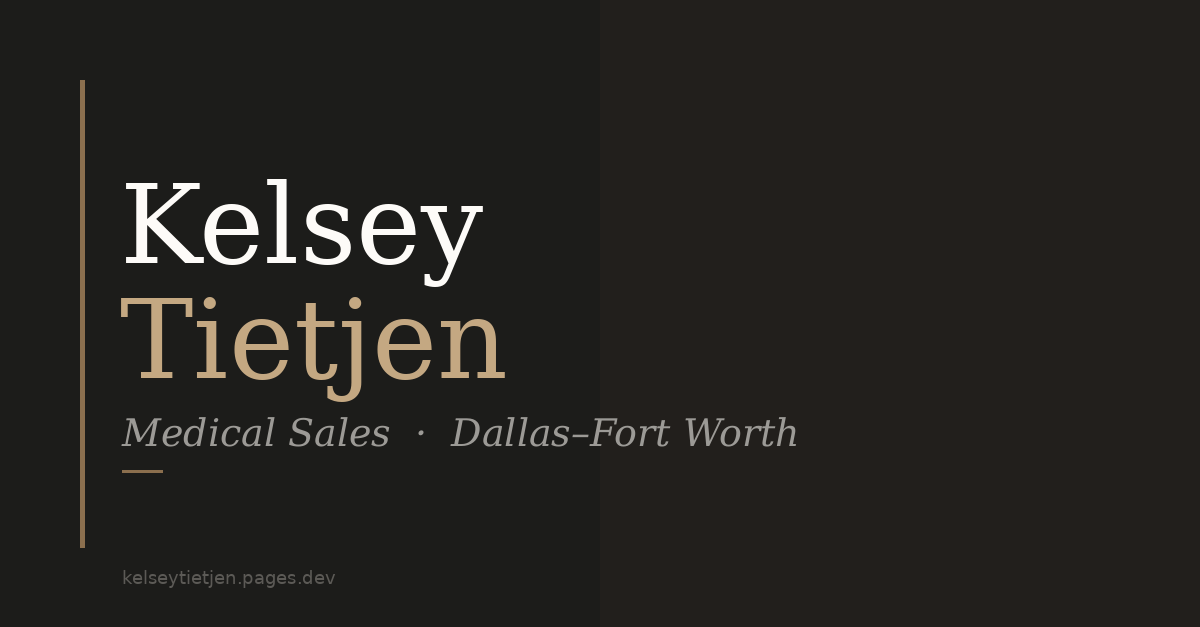
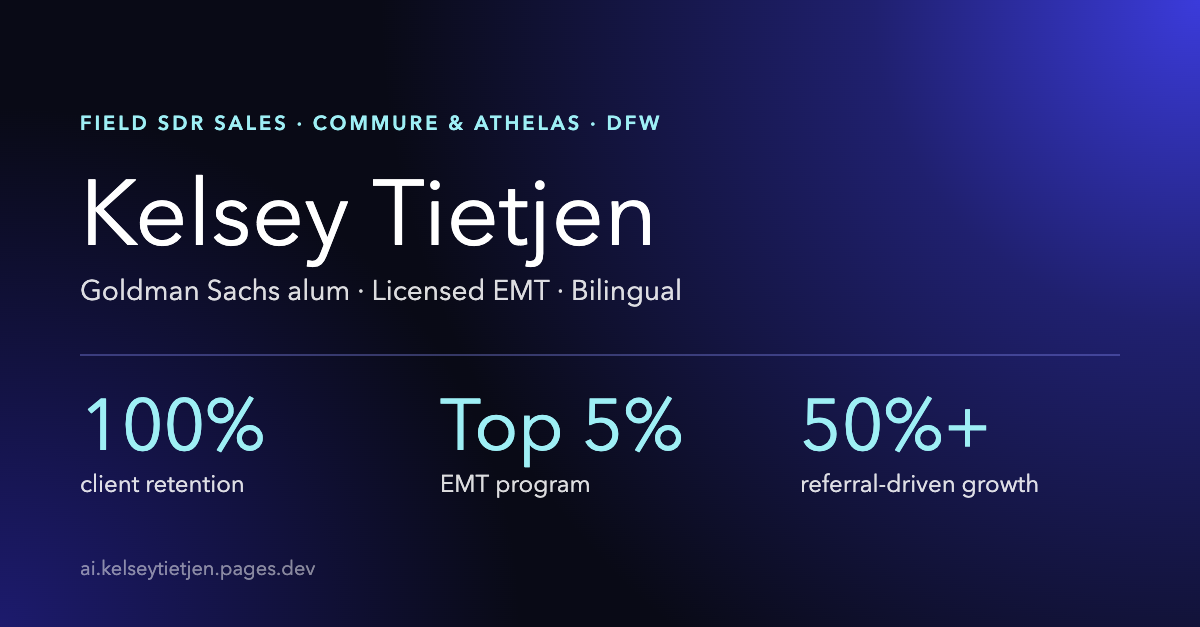
Restyle site in Commure colors and type; new link preview

diff --git a/index.html b/index.html
@@ -20,118 +20,132 @@
 <meta name="twitter:description" content="Goldman Sachs alum, licensed EMT, and bilingual Commure + Athelas Field SDR candidate in Dallas-Fort Worth. Built across missions, boardrooms, and trauma bays.">
 <meta name="twitter:image" content="https://raw.githubusercontent.com/kelseytietjen-tech/portfolio/ai/og-image-v2.png">
 
-<link href="https://fonts.googleapis.com/css2?family=Cormorant+Garamond:ital,wght@0,300;0,400;0,600;1,300;1,400&family=DM+Sans:wght@300;400;500&display=swap" rel="stylesheet">
+<link href="https://fonts.googleapis.com/css2?family=Sora:wght@300;400;500;600&family=DM+Sans:wght@300;400;500&display=swap" rel="stylesheet">
 <style>
   *, *::before, *::after { box-sizing: border-box; margin: 0; padding: 0; }
   :root {
-    --cream: #F7F4EF;
-    --warm-white: #FDFBF8;
-    --charcoal: #1C1C1A;
-    --mid: #5C5A56;
-    --light: #9C9A96;
-    --accent: #8B6F4E;
-    --accent-light: #C4A882;
-    --border: #E8E4DC;
+    --ink: #090A16;
+    --ink-2: #0E0F24;
+    --panel: rgba(255,255,255,0.035);
+    --panel-hover: rgba(255,255,255,0.07);
+    --line: rgba(140,146,255,0.22);
+    --indigo: #3B3BDB;
+    --indigo-deep: #23208A;
+    --cyan: #9EEFF5;
+    --white: #FFFFFF;
+    --text: rgba(255,255,255,0.86);
+    --muted: rgba(255,255,255,0.62);
+    --faint: rgba(255,255,255,0.42);
   }
   html { scroll-behavior: smooth; }
-  body { font-family: 'DM Sans', sans-serif; background: var(--warm-white); color: var(--charcoal); font-size: 15px; line-height: 1.7; }
-  .hero { min-height: 100vh; display: grid; grid-template-columns: 1fr 1fr; position: relative; overflow: hidden; }
-  .hero-left { background: var(--charcoal); display: flex; align-items: center; justify-content: center; padding: 4rem; position: relative; }
-  .hero-left::after { content: ''; position: absolute; top: 0; right: -1px; width: 60px; height: 100%; background: var(--warm-white); clip-path: polygon(100% 0, 100% 100%, 0 100%); }
-  .hero-photo { width: 100%; max-width: 380px; aspect-ratio: 3/4; object-fit: cover; object-position: top; filter: grayscale(20%) contrast(1.05); }
-  .hero-right { display: flex; flex-direction: column; justify-content: center; padding: 5rem 4rem 5rem 5rem; background: var(--warm-white); }
-  .eyebrow { font-family: 'DM Sans', sans-serif; font-size: 11px; font-weight: 500; letter-spacing: 0.18em; text-transform: uppercase; color: var(--accent); margin-bottom: 1.5rem; }
-  h1 { font-family: 'Cormorant Garamond', serif; font-size: clamp(3rem, 5vw, 4.5rem); font-weight: 300; line-height: 1.05; color: var(--charcoal); margin-bottom: 0.5rem; }
-  h1 em { font-style: italic; color: var(--accent); }
-  .hero-tagline { font-family: 'Cormorant Garamond', serif; font-size: 1.2rem; font-style: italic; color: var(--mid); margin-bottom: 2rem; font-weight: 300; }
-  .hero-pills { display: flex; flex-wrap: wrap; gap: 8px; margin-bottom: 2.5rem; }
-  .pill { font-size: 11px; font-weight: 500; letter-spacing: 0.08em; text-transform: uppercase; padding: 6px 14px; border: 1px solid var(--border); color: var(--mid); background: var(--cream); }
+  body { font-family: 'DM Sans', sans-serif; background: var(--ink); color: var(--text); font-size: 15px; line-height: 1.7; }
+  h1, h2, h3, .exp-title, .story-card-title, .cred-number, .highlight-text, .story-modal-title { font-family: 'Sora', sans-serif; }
+
+  /* HERO */
+  .hero { min-height: 100vh; display: grid; grid-template-columns: 1fr 1fr; position: relative; overflow: hidden;
+    background: radial-gradient(ellipse 70% 80% at 100% 0%, var(--indigo) 0%, rgba(59,59,219,0.35) 35%, transparent 70%),
+                radial-gradient(ellipse 50% 50% at 0% 100%, rgba(35,32,138,0.6) 0%, transparent 70%), var(--ink); }
+  .hero-left { display: flex; align-items: center; justify-content: center; padding: 4rem; position: relative; }
+  .hero-photo { width: 100%; max-width: 380px; aspect-ratio: 3/4; object-fit: cover; object-position: top; border: 1px solid var(--line); filter: grayscale(15%) contrast(1.05); }
+  .hero-right { display: flex; flex-direction: column; justify-content: center; padding: 5rem 4rem 5rem 3rem; }
+  .eyebrow { font-family: 'Sora', sans-serif; font-size: 12px; font-weight: 600; letter-spacing: 0.16em; text-transform: uppercase; color: var(--cyan); margin-bottom: 1.5rem; }
+  h1 { font-size: clamp(3rem, 5.5vw, 4.75rem); font-weight: 400; line-height: 1.05; color: var(--white); margin-bottom: 1rem; letter-spacing: -0.01em; }
+  h1 em { font-style: normal; color: var(--white); }
+  .hero-tagline { font-size: 1.15rem; color: var(--text); margin-bottom: 2rem; font-weight: 300; max-width: 30rem; }
   .cta-row { display: flex; gap: 1rem; flex-wrap: wrap; }
-  .btn-primary { display: inline-block; background: var(--charcoal); color: var(--warm-white); padding: 12px 28px; font-size: 12px; font-weight: 500; letter-spacing: 0.1em; text-transform: uppercase; text-decoration: none; transition: background 0.2s; }
-  .btn-primary:hover { background: var(--accent); }
-  .btn-secondary { display: inline-block; border: 1px solid var(--charcoal); color: var(--charcoal); padding: 12px 28px; font-size: 12px; font-weight: 500; letter-spacing: 0.1em; text-transform: uppercase; text-decoration: none; transition: all 0.2s; }
-  .btn-secondary:hover { background: var(--charcoal); color: var(--warm-white); }
+  .btn-primary { display: inline-block; background: var(--cyan); color: var(--ink); padding: 13px 28px; font-family: 'Sora', sans-serif; font-size: 12px; font-weight: 600; letter-spacing: 0.1em; text-transform: uppercase; text-decoration: none; border-radius: 999px; transition: background 0.2s, transform 0.2s; }
+  .btn-primary:hover { background: var(--white); }
+  .btn-secondary { display: inline-block; border: 1px solid rgba(255,255,255,0.55); color: var(--white); padding: 12px 28px; font-family: 'Sora', sans-serif; font-size: 12px; font-weight: 600; letter-spacing: 0.1em; text-transform: uppercase; text-decoration: none; border-radius: 999px; transition: all 0.2s; }
+  .btn-secondary:hover { border-color: var(--cyan); color: var(--cyan); }
+
   section { padding: 6rem 0; }
   .container { max-width: 1100px; margin: 0 auto; padding: 0 3rem; }
-  .section-label { font-size: 10px; font-weight: 500; letter-spacing: 0.2em; text-transform: uppercase; color: var(--accent); margin-bottom: 1rem; }
-  h2 { font-family: 'Cormorant Garamond', serif; font-size: clamp(2rem, 3.5vw, 3rem); font-weight: 300; line-height: 1.2; margin-bottom: 2rem; }
-  .narrative-section { background: var(--cream); }
+  .section-label { font-family: 'Sora', sans-serif; font-size: 12px; font-weight: 600; letter-spacing: 0.16em; text-transform: uppercase; color: var(--cyan); margin-bottom: 1rem; }
+  h2 { font-size: clamp(2rem, 3.5vw, 3rem); font-weight: 400; line-height: 1.15; margin-bottom: 2rem; color: var(--white); letter-spacing: -0.01em; }
+  .divider { width: 100%; max-width: 120px; height: 1px; background: var(--line); margin: 1.5rem 0; }
+
+  /* NARRATIVE */
+  .narrative-section { background: var(--ink); border-top: 1px solid var(--line); }
   .narrative-grid { display: grid; grid-template-columns: 1fr 1.6fr; gap: 4rem; align-items: start; }
   .narrative-sticky { position: sticky; top: 4rem; }
-  .narrative-body p { color: var(--mid); margin-bottom: 1.5rem; font-size: 15px; line-height: 1.85; }
+  .narrative-body p { color: var(--muted); margin-bottom: 1.5rem; font-size: 15px; line-height: 1.85; }
   .narrative-body p:last-child { margin-bottom: 0; }
-  .highlight-text { font-family: 'Cormorant Garamond', serif; font-size: 1.35rem; font-style: italic; color: var(--charcoal); line-height: 1.5; margin-bottom: 1.5rem; }
-  .credentials { background: var(--charcoal); color: var(--warm-white); }
-  .credentials h2 { color: var(--warm-white); }
-  .credentials .section-label { color: var(--accent-light); }
-  .cred-grid { display: grid; grid-template-columns: repeat(3, 1fr); gap: 2px; margin-top: 3rem; }
-  .cred-item { background: rgba(255,255,255,0.04); padding: 2.5rem 2rem; border: 1px solid rgba(255,255,255,0.08); transition: background 0.2s; }
-  .cred-item:hover { background: rgba(255,255,255,0.08); }
-  .cred-number { font-family: 'Cormorant Garamond', serif; font-size: 3rem; font-weight: 300; color: var(--accent-light); line-height: 1; margin-bottom: 0.5rem; }
-  .cred-label { font-size: 11px; font-weight: 500; letter-spacing: 0.1em; text-transform: uppercase; color: rgba(255,255,255,0.5); margin-bottom: 0.75rem; }
-  .cred-desc { font-size: 13px; color: rgba(255,255,255,0.65); line-height: 1.6; }
-  .recommendations-section { background: var(--warm-white); }
-  .rec-grid { display: grid; grid-template-columns: repeat(2, 1fr); gap: 2rem; margin-top: 3rem; }
-  .rec-card { background: var(--cream); border: 1px solid var(--border); padding: 2rem; transition: background 0.2s; display: flex; flex-direction: column; }
-  .rec-card:hover { background: #F0EAE0; }
-  .rec-card-content { flex-grow: 1; }
-  .rec-card-buttons { margin-top: 1.5rem; display: flex; gap: 0.75rem; }
-  .btn-view-letter-small { background: var(--accent); color: var(--warm-white); padding: 10px 20px; font-size: 11px; font-weight: 500; letter-spacing: 0.1em; text-transform: uppercase; border: none; cursor: pointer; transition: background 0.2s; }
-  .btn-view-letter-small:hover { background: var(--accent-light); }
-  .rec-quote { font-size: 14px; color: var(--charcoal); line-height: 1.8; font-style: italic; margin-bottom: 1rem; }
-  .rec-attribution { font-size: 12px; color: var(--light); font-weight: 500; }
+  .highlight-text { font-size: 1.25rem; font-weight: 300; color: var(--white) !important; line-height: 1.6; margin-bottom: 1.75rem; }
 
-  /* SIGNATURE STORIES */
-  .stories-section { background: var(--charcoal); color: var(--warm-white); }
-  .stories-section h2 { color: var(--warm-white); }
-  .stories-section .section-label { color: var(--accent-light); }
-  .stories-grid { display: grid; grid-template-columns: repeat(3, 1fr); gap: 2px; margin-top: 3rem; background: rgba(255,255,255,0.08); border: 1px solid rgba(255,255,255,0.08); }
-  .story-card { background: #232320; padding: 2.25rem; cursor: pointer; transition: background 0.2s; display: flex; flex-direction: column; }
-  .story-card:hover { background: #2B2B27; }
-  .story-card-title { font-family: 'Cormorant Garamond', serif; font-size: 1.5rem; font-weight: 400; color: var(--warm-white); margin-bottom: 1rem; line-height: 1.25; }
-  .story-card-teaser { font-size: 13px; color: rgba(255,255,255,0.65); line-height: 1.75; flex-grow: 1; margin-bottom: 1.5rem; }
-  .story-card-cta { font-size: 11px; font-weight: 500; letter-spacing: 0.1em; text-transform: uppercase; color: var(--accent-light); }
-  .story-modal { display: none; position: fixed; z-index: 1000; left: 0; top: 0; width: 100%; height: 100%; background: var(--charcoal); overflow-y: auto; }
+  /* STORIES */
+  .stories-section { background: radial-gradient(ellipse 60% 70% at 100% 0%, rgba(59,59,219,0.45) 0%, transparent 70%), var(--ink-2); }
+  .stories-grid { display: grid; grid-template-columns: repeat(3, 1fr); gap: 1px; margin-top: 3rem; background: var(--line); border: 1px solid var(--line); }
+  .story-card { background: var(--ink-2); padding: 2.25rem; cursor: pointer; transition: background 0.2s; display: flex; flex-direction: column; }
+  .story-card:hover { background: #15173A; }
+  .story-card-title { font-size: 1.3rem; font-weight: 500; color: var(--cyan); margin-bottom: 1rem; line-height: 1.3; }
+  .story-card-teaser { font-size: 14px; color: var(--muted); line-height: 1.75; flex-grow: 1; margin-bottom: 1.5rem; }
+  .story-card-cta { font-family: 'Sora', sans-serif; font-size: 11px; font-weight: 600; letter-spacing: 0.12em; text-transform: uppercase; color: var(--white); }
+  .story-card:hover .story-card-cta { color: var(--cyan); }
+  .story-modal { display: none; position: fixed; z-index: 1000; left: 0; top: 0; width: 100%; height: 100%; background: radial-gradient(ellipse 60% 60% at 100% 0%, rgba(59,59,219,0.5) 0%, transparent 70%), var(--ink); overflow-y: auto; }
   .story-modal.show { display: block; }
   .story-modal-inner { max-width: 780px; margin: 0 auto; padding: 4rem 3rem 6rem; }
-  .story-modal-back { display: inline-flex; align-items: center; gap: 8px; background: none; border: none; color: rgba(255,255,255,0.6); font-size: 13px; font-family: 'DM Sans', sans-serif; cursor: pointer; margin-bottom: 2.5rem; padding: 0; transition: color 0.2s; }
-  .story-modal-back:hover { color: var(--accent-light); }
-  .story-modal-title { font-family: 'Cormorant Garamond', serif; font-size: clamp(2rem, 4vw, 2.75rem); font-weight: 400; color: var(--warm-white); margin-bottom: 2rem; line-height: 1.15; }
-  .story-modal-body p { color: rgba(255,255,255,0.8); font-size: 15px; line-height: 1.9; margin-bottom: 1.4rem; }
+  .story-modal-back { display: inline-flex; align-items: center; gap: 8px; background: none; border: none; color: var(--muted); font-size: 13px; font-family: 'Sora', sans-serif; cursor: pointer; margin-bottom: 2.5rem; padding: 0; transition: color 0.2s; }
+  .story-modal-back:hover { color: var(--cyan); }
+  .story-modal-title { font-size: clamp(2rem, 4vw, 2.75rem); font-weight: 400; color: var(--white); margin-bottom: 2rem; line-height: 1.15; }
+  .story-modal-body p { color: var(--text); font-size: 16px; line-height: 1.9; margin-bottom: 1.4rem; }
   .story-modal-body p:last-child { margin-bottom: 0; }
 
-  .skills-section { background: var(--cream); padding: 6rem 0; }
-  .skills-grid { display: grid; grid-template-columns: repeat(2, 1fr); gap: 2rem; margin-top: 3rem; }
-  .skill-card { background: var(--warm-white); border: 1px solid var(--border); padding: 2rem; }
-  .skill-label { font-size: 10px; font-weight: 500; letter-spacing: 0.18em; text-transform: uppercase; color: var(--accent); margin-bottom: 1rem; }
-  .skill-items { font-size: 14px; color: var(--mid); line-height: 1.8; }
-  .experience-section { background: var(--warm-white); }
+  /* RECOMMENDATIONS */
+  .recommendations-section { background: var(--ink); }
+  .rec-grid { display: grid; grid-template-columns: repeat(2, 1fr); gap: 1.5rem; margin-top: 3rem; }
+  .rec-card { background: var(--panel); border: 1px solid var(--line); padding: 2rem; transition: background 0.2s; display: flex; flex-direction: column; }
+  .rec-card:hover { background: var(--panel-hover); }
+  .rec-card-content { flex-grow: 1; }
+  .rec-card-buttons { margin-top: 1.5rem; display: flex; gap: 0.75rem; }
+  .btn-view-letter-small { background: transparent; color: var(--cyan); padding: 9px 18px; font-family: 'Sora', sans-serif; font-size: 11px; font-weight: 600; letter-spacing: 0.1em; text-transform: uppercase; border: 1px solid var(--cyan); border-radius: 999px; cursor: pointer; transition: all 0.2s; }
+  .btn-view-letter-small:hover { background: var(--cyan); color: var(--ink); }
+  .rec-quote { font-size: 15px; color: var(--text); line-height: 1.8; margin-bottom: 1rem; }
+  .rec-attribution { font-size: 12px; color: var(--faint); font-weight: 500; }
+
+  /* BY THE NUMBERS */
+  .credentials { background: radial-gradient(ellipse 60% 80% at 0% 100%, rgba(59,59,219,0.5) 0%, transparent 70%), var(--ink-2); }
+  .cred-grid { display: grid; grid-template-columns: repeat(3, 1fr); gap: 0 3rem; margin-top: 3rem; border-top: 1px solid var(--line); }
+  .cred-item { padding: 2.5rem 0 1.5rem; }
+  .cred-number { font-size: 3.5rem; font-weight: 300; color: var(--cyan); line-height: 1; margin-bottom: 0.75rem; letter-spacing: -0.02em; }
+  .cred-label { font-family: 'Sora', sans-serif; font-size: 11px; font-weight: 600; letter-spacing: 0.12em; text-transform: uppercase; color: var(--white); margin-bottom: 0.6rem; }
+  .cred-desc { font-size: 14px; color: var(--muted); line-height: 1.6; }
+
+  /* SKILLS */
+  .skills-section { background: var(--ink); padding: 6rem 0; }
+  .skills-grid { display: grid; grid-template-columns: repeat(2, 1fr); gap: 1.5rem; margin-top: 3rem; }
+  .skill-card { background: var(--panel); border: 1px solid var(--line); padding: 2rem; }
+  .skill-label { font-family: 'Sora', sans-serif; font-size: 11px; font-weight: 600; letter-spacing: 0.14em; text-transform: uppercase; color: var(--cyan); margin-bottom: 1rem; }
+  .skill-items { font-size: 14px; color: var(--text); line-height: 1.9; }
+
+  /* EXPERIENCE */
+  .experience-section { background: var(--ink-2); }
   .exp-list { margin-top: 3rem; }
-  .exp-item { display: grid; grid-template-columns: 200px 1fr; gap: 3rem; padding: 2.5rem 0; border-top: 1px solid var(--border); }
-  .exp-item:last-child { border-bottom: 1px solid var(--border); }
+  .exp-item { display: grid; grid-template-columns: 220px 1fr; gap: 3rem; padding: 2.5rem 0; border-top: 1px solid var(--line); }
+  .exp-item:last-child { border-bottom: 1px solid var(--line); }
   .exp-meta { padding-top: 4px; }
-  .exp-company { font-size: 11px; font-weight: 500; letter-spacing: 0.1em; text-transform: uppercase; color: var(--accent); margin-bottom: 0.4rem; }
-  .exp-period { font-size: 12px; color: var(--light); }
-  .exp-title { font-family: 'Cormorant Garamond', serif; font-size: 1.4rem; font-weight: 400; margin-bottom: 0.75rem; color: var(--charcoal); }
-  .exp-body { font-size: 14px; color: var(--mid); line-height: 1.75; }
+  .exp-company { font-family: 'Sora', sans-serif; font-size: 11px; font-weight: 600; letter-spacing: 0.12em; text-transform: uppercase; color: var(--cyan); margin-bottom: 0.4rem; }
+  .exp-period { font-size: 12px; color: var(--faint); }
+  .exp-title { font-size: 1.25rem; font-weight: 400; margin-bottom: 0.75rem; color: var(--white); }
+  .exp-body { font-size: 14px; color: var(--muted); line-height: 1.75; }
   .exp-bullets { margin-top: 0.75rem; padding-left: 1rem; }
-  .exp-bullets li { font-size: 13px; color: var(--mid); margin-bottom: 0.4rem; line-height: 1.6; }
-  .contact-section { background: var(--charcoal); color: var(--warm-white); padding: 5rem 0; }
+  .exp-bullets li { font-size: 14px; color: var(--muted); margin-bottom: 0.45rem; line-height: 1.65; }
+  .exp-bullets li::marker { color: var(--cyan); }
+
+  /* CONTACT */
+  .contact-section { background: radial-gradient(ellipse 70% 90% at 100% 100%, var(--indigo) 0%, rgba(59,59,219,0.3) 40%, transparent 75%), var(--ink); padding: 6rem 0; border-top: 1px solid var(--line); }
   .contact-inner { display: grid; grid-template-columns: 1fr 1fr; gap: 6rem; align-items: center; }
-  .contact-section h2 { color: var(--warm-white); }
-  .contact-section .section-label { color: var(--accent-light); }
-  .contact-tagline { font-family: 'Cormorant Garamond', serif; font-size: 1.1rem; font-style: italic; color: rgba(255,255,255,0.5); margin-top: 1rem; }
+  .contact-tagline { font-size: 1.05rem; font-weight: 300; color: var(--text); margin-top: 1rem; }
   .contact-details { display: flex; flex-direction: column; gap: 1.5rem; }
   .contact-item { display: flex; flex-direction: column; gap: 4px; }
-  .contact-item-label { font-size: 10px; font-weight: 500; letter-spacing: 0.18em; text-transform: uppercase; color: var(--accent-light); }
-  .contact-item-value { font-size: 15px; color: rgba(255,255,255,0.85); text-decoration: none; }
-  .contact-item-value:hover { color: var(--accent-light); }
-  .divider { width: 40px; height: 1px; background: var(--accent); margin: 1.5rem 0; }
+  .contact-item-label { font-family: 'Sora', sans-serif; font-size: 11px; font-weight: 600; letter-spacing: 0.14em; text-transform: uppercase; color: var(--cyan); }
+  .contact-item-value { font-size: 15px; color: var(--white); text-decoration: none; }
+  .contact-item-value:hover { color: var(--cyan); }
+
   @media (max-width: 768px) {
     .hero { grid-template-columns: 1fr; min-height: auto; }
-    .hero-left { min-height: 50vh; }
-    .hero-left::after { display: none; }
-    .hero-right { padding: 3rem 2rem; }
+    .hero-left { padding: 3rem 1.5rem 0; }
+    .hero-photo { max-width: 300px; }
+    .hero-right { padding: 2.5rem 1.5rem 3.5rem; }
     .narrative-grid { grid-template-columns: 1fr; gap: 2rem; }
     .narrative-sticky { position: static; }
     .cred-grid { grid-template-columns: 1fr; }
@@ -146,11 +160,11 @@
   }
   .fade-in { opacity: 0; transform: translateY(20px); transition: opacity 0.6s ease, transform 0.6s ease; }
   .fade-in.visible { opacity: 1; transform: translateY(0); }
-  .modal { display: none; position: fixed; z-index: 1000; left: 0; top: 0; width: 100%; height: 100%; background-color: rgba(0,0,0,0.5); padding: 2rem 1rem; }
+  .modal { display: none; position: fixed; z-index: 1000; left: 0; top: 0; width: 100%; height: 100%; background-color: rgba(5,6,16,0.8); padding: 2rem 1rem; }
   .modal.show { display: flex; align-items: center; justify-content: center; }
-  .modal-content { background-color: var(--warm-white); padding: 2rem; width: 95vw; max-width: 1200px; height: 90vh; overflow-y: auto; position: relative; }
-  .modal-close { position: absolute; top: 1.5rem; right: 1.5rem; font-size: 28px; font-weight: bold; color: var(--charcoal); cursor: pointer; z-index: 1001; }
-  .modal-close:hover { color: var(--accent); }
+  .modal-content { background-color: var(--ink-2); border: 1px solid var(--line); padding: 2rem; width: 95vw; max-width: 1200px; height: 90vh; overflow-y: auto; position: relative; }
+  .modal-close { position: absolute; top: 1rem; right: 1.25rem; font-size: 28px; font-weight: bold; color: var(--white); cursor: pointer; z-index: 1001; }
+  .modal-close:hover { color: var(--cyan); }
 </style>
 </head>
 <body>
